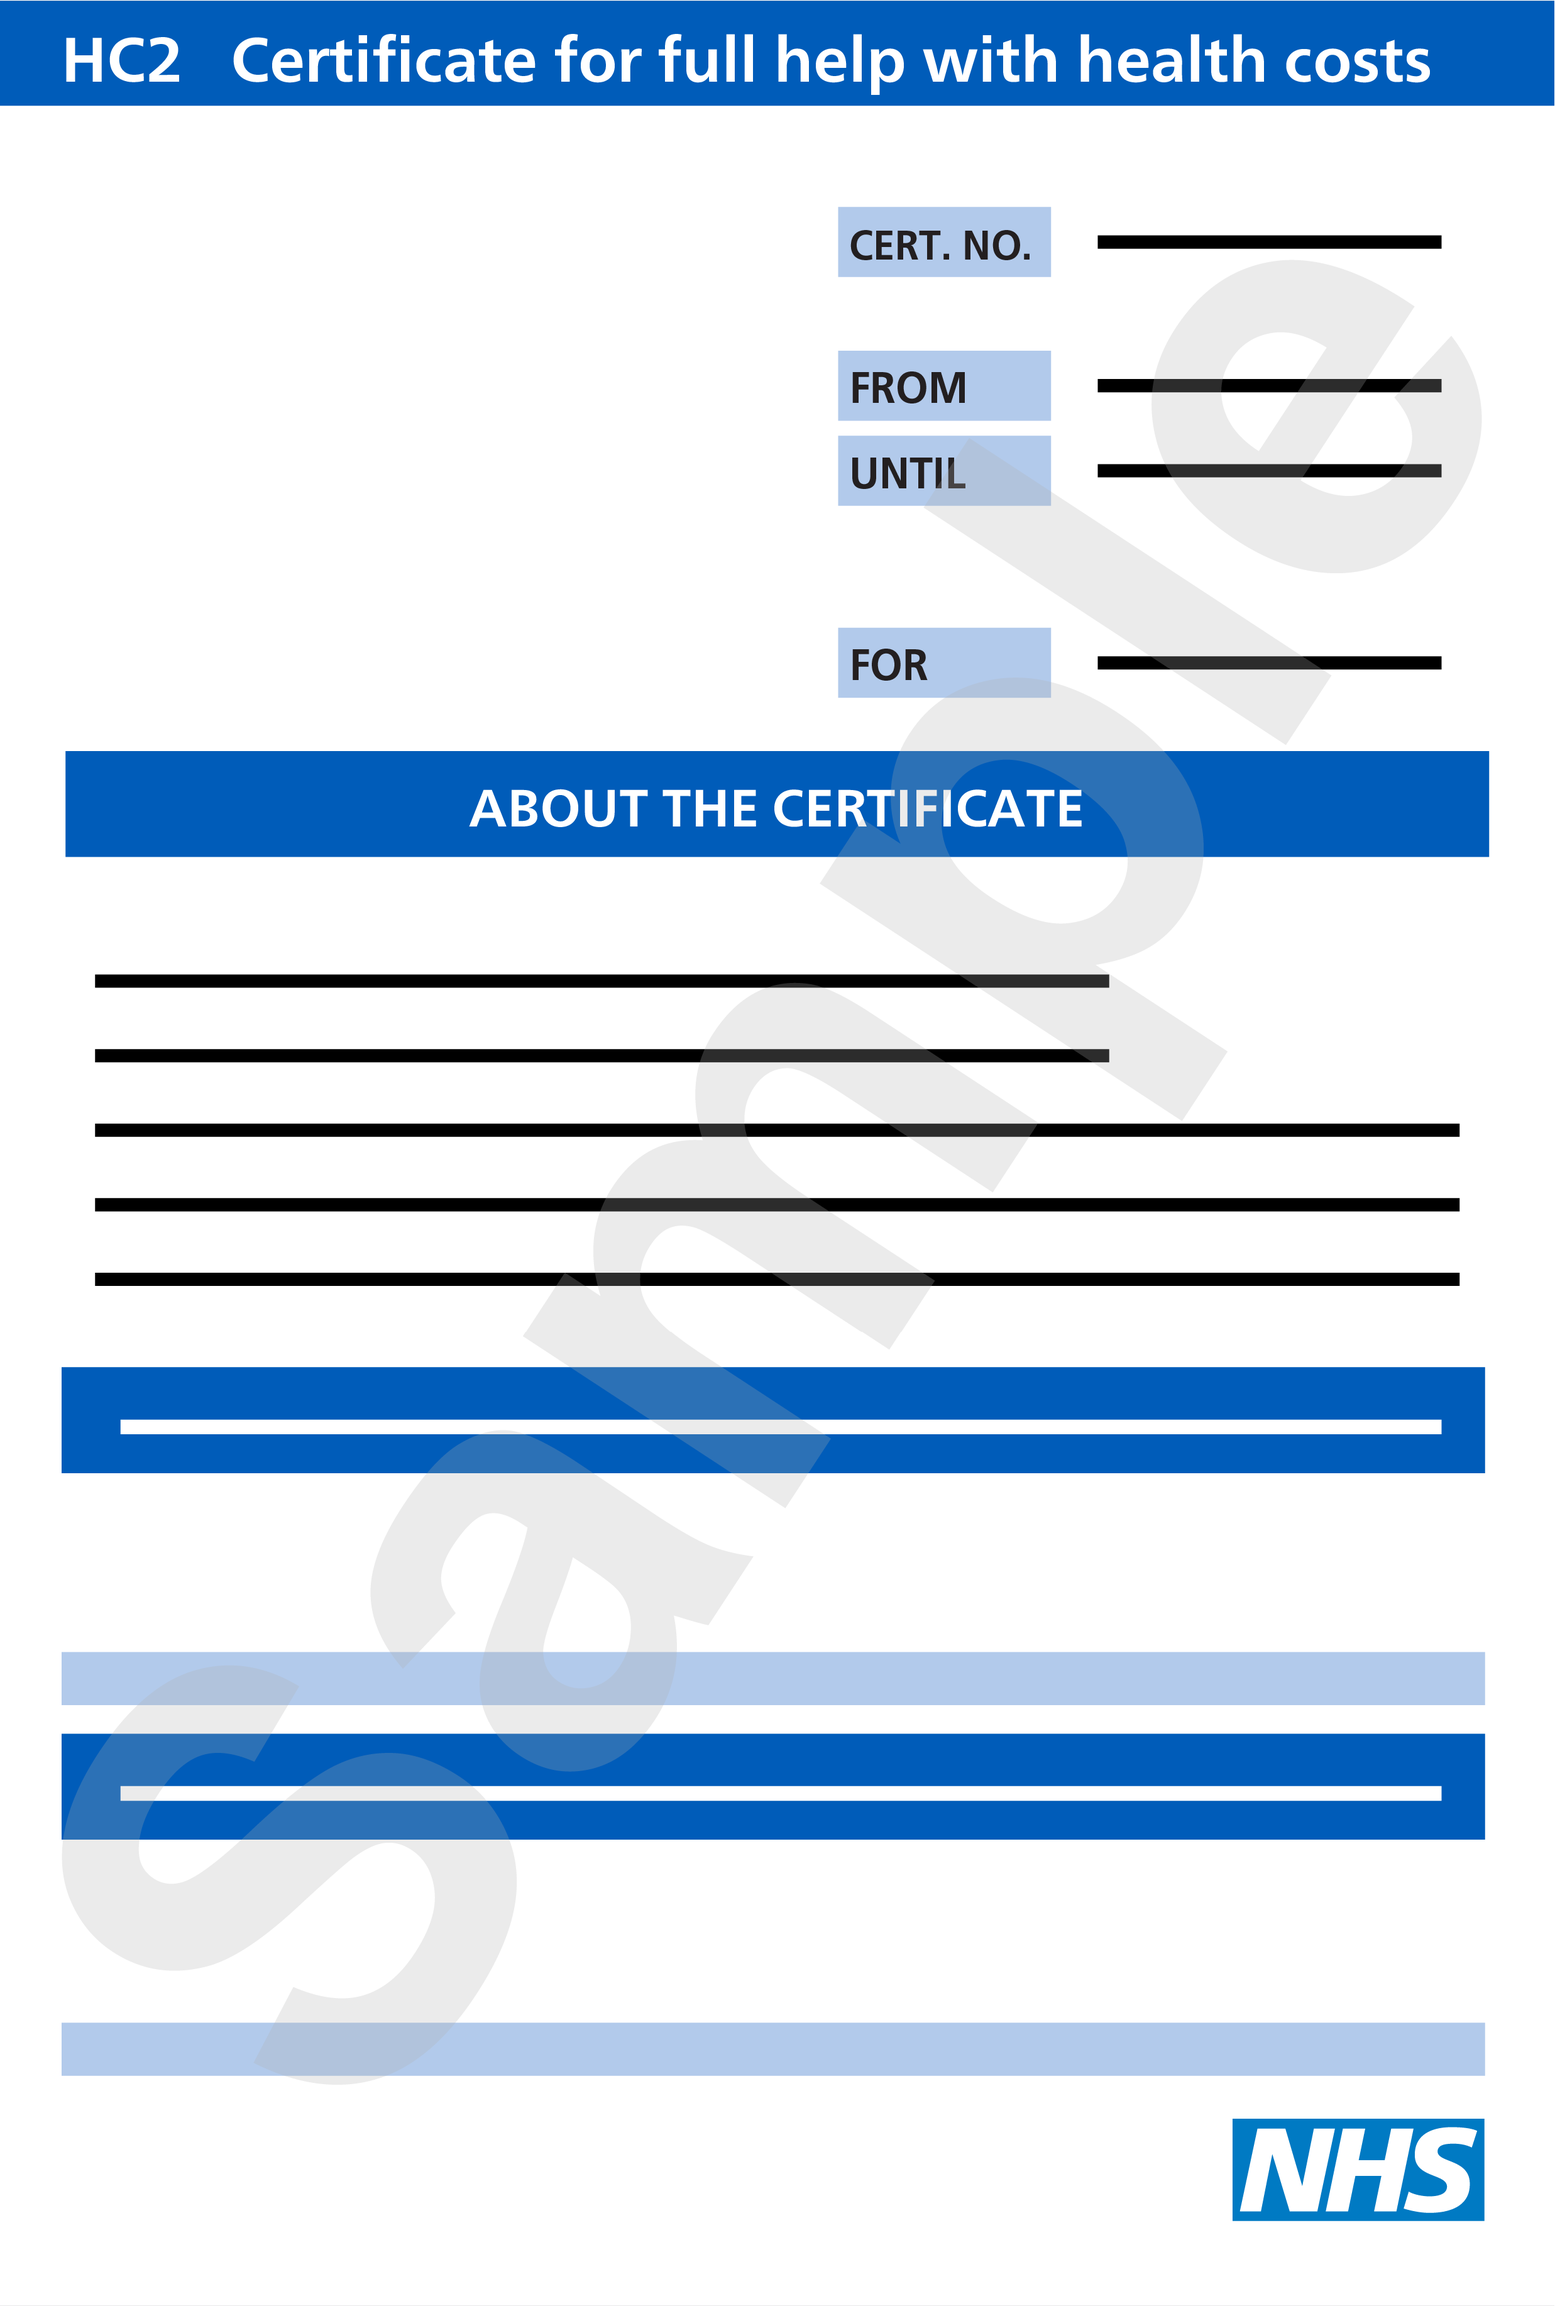
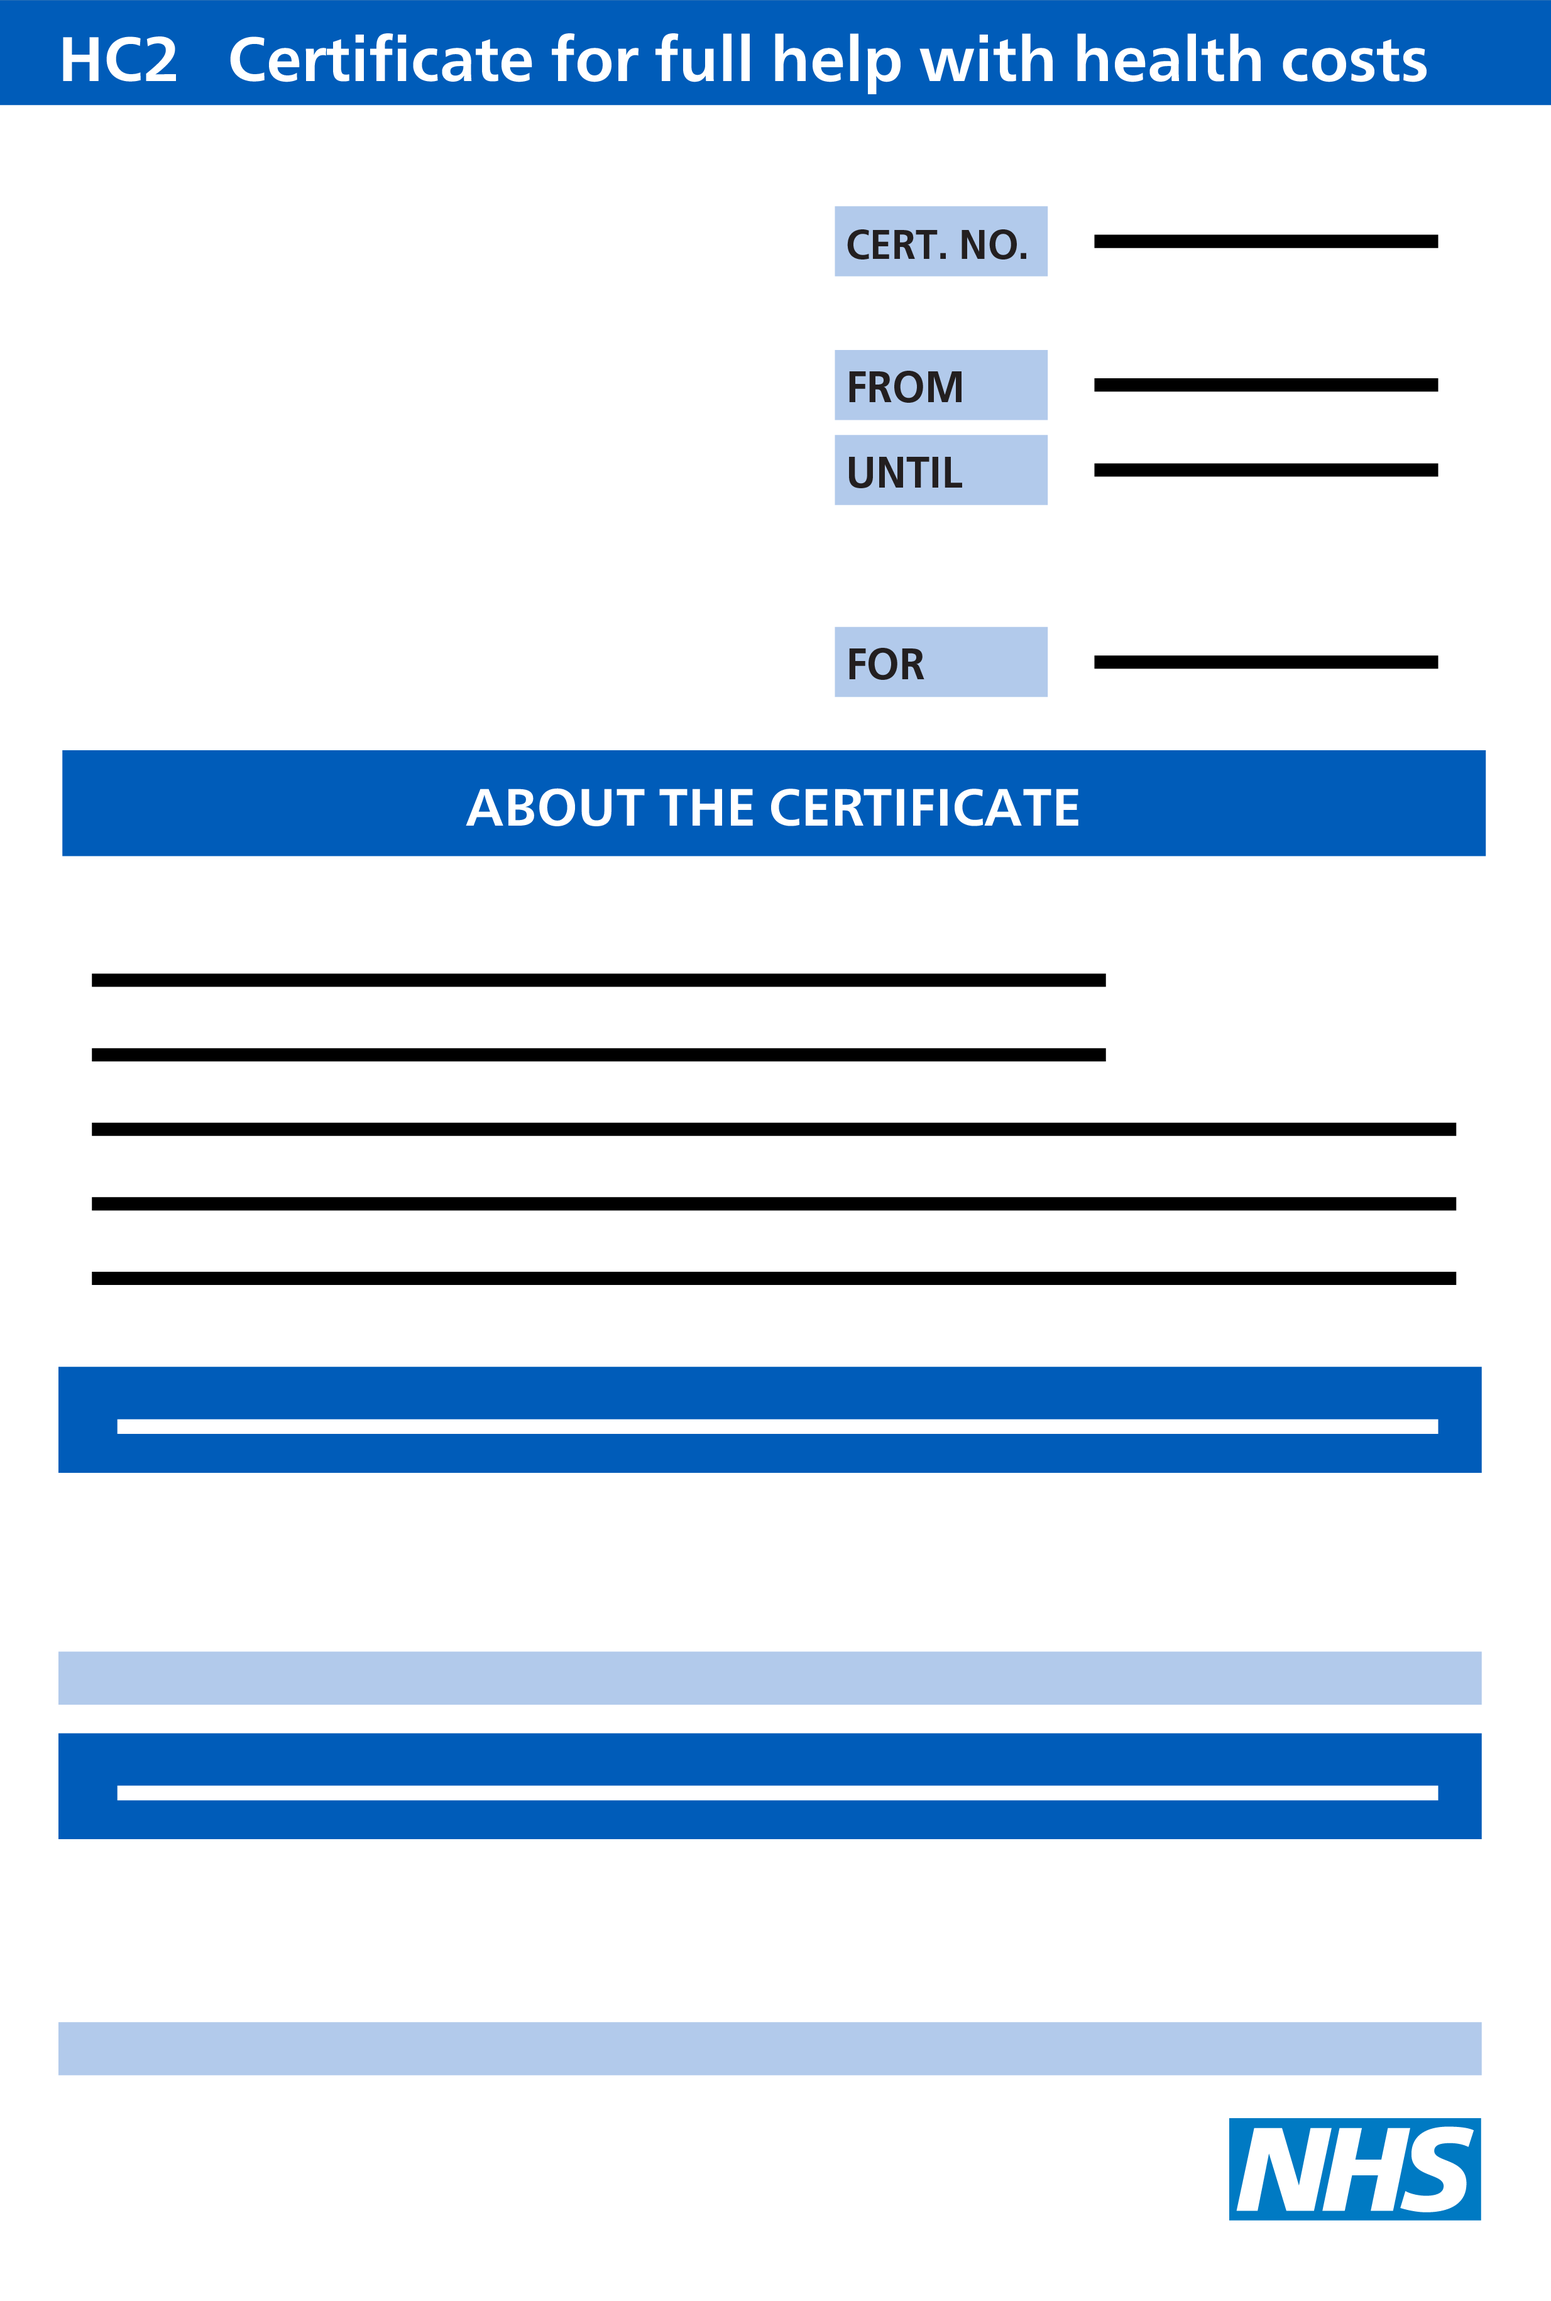
added some extra guidance for isesa and removed watermark from hc letters

diff --git a/app/views/breakdown/examples.html b/app/views/breakdown/examples.html
@@ -146,7 +146,8 @@
     <details>
         <summary><span class="summary">Income Support or income-related Employment and Support Allowance</span></summary>
         <div class="panel panel-border-narrow" id="details-content-0" aria-hidden="false">
-            <p>A clear scan or photograph of your Income Support or income-related Employment and Support Allowance award letter. It's important that your income related entitlement is clearly visible.</p>
+            <p>A clear scan or photograph of your Income Support or income-related Employment and Support Allowance award letter.</p>
+            <p>If you’re sending a photo of your income-related Employment and Support Allowance letter, make sure that your income related entitlement is clearly visible in the photo</p>
             <img src="/public/images/prototypes/challenge/esa-income-letter2.png" alt="Example of an allowance award letter with the income related entitlement clearly visible" width="100%">
         </div>
     </details>

diff --git a/app/views/breakdown/endPages/end-pages-updated/proof/isesa-proof-scen0.html b/app/views/breakdown/endPages/end-pages-updated/proof/isesa-proof-scen0.html
@@ -149,7 +149,7 @@
                         <span class="circle circle-step">1</span>
                         <div class="point">
                             <p>Take a photo of your proof using a mobile phone or digital camera.</p>
-                            <p>It's important that your income related entitlement is clearly visible in the photo.</p>
+                            <p>If you’re sending a photo of your income-related Employment and Support Allowance letter, make sure that your income related entitlement is clearly visible in the photo.</p>
                             <br>
                                           <img src="/public/images/prototypes/challenge/esa-income-letter2.png" alt="Example of an maternity exemption certificate card in its entirety with all details displayed clearly" width="100%">
                             <br>

diff --git a/app/views/breakdown/endPages/end-pages-updated/proof/isesa-proof.html b/app/views/breakdown/endPages/end-pages-updated/proof/isesa-proof.html
@@ -150,7 +150,7 @@
                         <span class="circle circle-step">1</span>
                         <div class="point">
                             <p>Take a photo of your proof using a mobile phone or digital camera.</p>
-                            <p>It's important that your income related entitlement is clearly visible in the photo.</p>
+                            <p>If you’re sending a photo of your income-related Employment and Support Allowance letter, make sure that your income related entitlement is clearly visible in the photo.</p>
                             <br>
                                           <img src="/public/images/prototypes/challenge/esa-income-letter2.png" alt="Example of an maternity exemption certificate card in its entirety with all details displayed clearly" width="100%">
                             <br>

diff --git a/app/views/breakdown/endPages/end-pages-updated/proof/isesa-proofScen2.html b/app/views/breakdown/endPages/end-pages-updated/proof/isesa-proofScen2.html
@@ -150,7 +150,7 @@
                         <span class="circle circle-step">1</span>
                         <div class="point">
                             <p>Take a photo of your proof using a mobile phone or digital camera.</p>
-                            <p>It's important that your income related entitlement is clearly visible in the photo.</p>
+                            <p>If you’re sending a photo of your income-related Employment and Support Allowance letter, make sure that your income related entitlement is clearly visible in the photo.</p>
                             <br>
                                           <img src="/public/images/prototypes/challenge/esa-income-letter2.png" alt="Example of an maternity exemption certificate card in its entirety with all details displayed clearly" width="100%">
                             <br>
